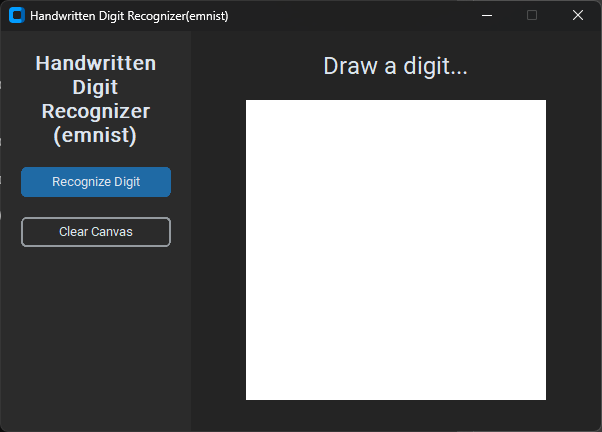
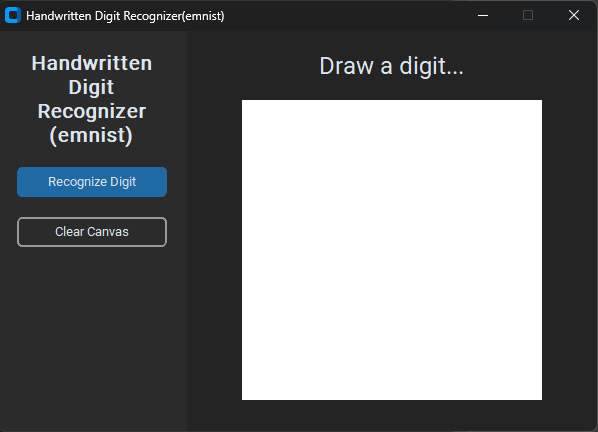
ui updates

diff --git a/src/components/ScrollProgress.jsx b/src/components/ScrollProgress.jsx
@@ -1,27 +1,76 @@
-import { useEffect, useState } from 'react';
+import { useEffect, useState, useRef } from 'react';
 import './ScrollProgress.css';
 
 export default function ScrollProgress() {
   const [progress, setProgress] = useState(0);
+  const isDragging = useRef(false);
+  const trackRef = useRef(null);
 
   useEffect(() => {
-    const handleScroll = () => {
+    const updateProgressFromScroll = () => {
       const scrollY = window.scrollY;
       const docHeight = document.documentElement.scrollHeight - window.innerHeight;
       const scrolled = docHeight > 0 ? (scrollY / docHeight) * 100 : 0;
       setProgress(scrolled);
     };
 
+    const handleScroll = () => {
+      updateProgressFromScroll();
+    };
+
     window.addEventListener('scroll', handleScroll, { passive: true });
-    
-    // Initial call
-    handleScroll();
+    updateProgressFromScroll();
 
     return () => window.removeEventListener('scroll', handleScroll);
   }, []);
 
+  useEffect(() => {
+    const handleMouseMove = (e) => {
+      if (!isDragging.current) return;
+      e.preventDefault();
+      scrollToY(e.clientY);
+    };
+
+    const handleMouseUp = () => {
+      if (isDragging.current) {
+        isDragging.current = false;
+        document.body.style.userSelect = '';
+      }
+    };
+
+    window.addEventListener('mousemove', handleMouseMove);
+    window.addEventListener('mouseup', handleMouseUp);
+
+    return () => {
+      window.removeEventListener('mousemove', handleMouseMove);
+      window.removeEventListener('mouseup', handleMouseUp);
+    };
+  }, []);
+
+  const scrollToY = (clientY) => {
+    if (!trackRef.current) return;
+    const { top, height } = trackRef.current.getBoundingClientRect();
+    const ratio = Math.max(0, Math.min(1, (clientY - top) / height));
+    const docHeight = document.documentElement.scrollHeight - window.innerHeight;
+    
+    window.scrollTo({
+      top: docHeight * ratio,
+      behavior: 'auto'
+    });
+  };
+
+  const handleMouseDown = (e) => {
+    isDragging.current = true;
+    document.body.style.userSelect = 'none';
+    scrollToY(e.clientY);
+  };
+
   return (
-    <div className="scroll-progress-container fade-in">
+    <div 
+      className="scroll-progress-container fade-in"
+      onMouseDown={handleMouseDown}
+      ref={trackRef}
+    >
       <div className="scroll-progress-track">
         <div 
           className="scroll-progress-fill" 

diff --git a/src/components/Projects.css b/src/components/Projects.css
@@ -10,7 +10,7 @@
 
 /* ── Card ── */
 .project-card {
-  background: var(--bg-card);
+  background: var(--bg-secondary);
   border: 1px solid var(--border);
   border-radius: 18px;
   overflow: hidden;
@@ -76,7 +76,7 @@
   height: 32px;
   border-radius: 8px;
   border: 1px solid var(--border);
-  background: var(--bg-primary);
+  background: var(--bg-secondary);
   color: var(--text-secondary);
   transition: all 0.2s ease;
 }
@@ -106,10 +106,11 @@
   flex-shrink: 0;
   position: relative;
   overflow: hidden;
-  background: var(--bg-card-hover);
-  border-left: 1px solid var(--border);
+  background: var(--bg-secondary);
+  border-left: none;
   width: 30%;
   transition: width 0.42s cubic-bezier(0.4, 0, 0.2, 1);
+  pointer-events: auto; /* override global img pointer-events: none */
 }
 
 .project-cover:hover {
@@ -140,7 +141,7 @@
 .project-cover-hover {
   object-fit: contain;
   object-position: center;
-  background: var(--bg-card-hover);
+  background: transparent;
   opacity: 0;
   z-index: 2;
 }

diff --git a/src/components/ScrollProgress.css b/src/components/ScrollProgress.css
@@ -1,18 +1,21 @@
 .scroll-progress-container {
   position: fixed;
   top: 0;
-  right: 8px;
+  right: 0;
   height: 100vh;
-  width: 3px;
+  width: 16px; /* Wider hit area for dragging */
   z-index: 1001;
+  cursor: pointer; /* Indicates it's interactive */
+  display: flex;
+  justify-content: center;
 }
 
 .scroll-progress-track {
   position: relative;
-  width: 100%;
+  width: 4px; /* Track is slightly thicker but inside wider container */
   height: 100%;
   background: var(--border);
-  border-radius: 0;
+  border-radius: 2px;
 }
 
 .scroll-progress-fill {

diff --git a/src/components/Contact.css b/src/components/Contact.css
@@ -29,7 +29,7 @@
   align-items: center;
   gap: 1rem;
   padding: 1rem 1.25rem;
-  background: var(--bg-card);
+  background: var(--bg-secondary);
   border: 1px solid var(--border);
   border-radius: 12px;
   transition: all 0.3s ease;
@@ -80,7 +80,7 @@
   display: flex;
   flex-direction: column;
   gap: 1.25rem;
-  background: var(--bg-card);
+  background: var(--bg-secondary);
   border: 1px solid var(--border);
   border-radius: 18px;
   padding: 2rem;

diff --git a/src/components/About.css b/src/components/About.css
@@ -30,7 +30,7 @@
 
 .profile-img-wrap {
   width: 100%;
-  height: 320px;
+  aspect-ratio: 3 / 4;  /* portrait ratio — adjust e.g. 1/1 for square */
   border-radius: 14px;
   overflow: hidden;
   margin-bottom: 1.5rem;
@@ -245,7 +245,7 @@
   justify-content: center;
   width: 44px;
   height: 44px;
-  background: var(--bg-card);
+  background: var(--bg-secondary);
   border: 1px solid var(--border);
   border-radius: 10px;
   color: var(--text-primary);

diff --git a/src/components/Skills.css b/src/components/Skills.css
@@ -64,7 +64,7 @@
   align-items: center;
   gap: 0.4rem;
   padding: 0.3rem 0.85rem 0.3rem 0.55rem;
-  background: var(--bg-primary);
+  background: var(--bg-secondary);
   color: var(--tag-text);
   border-radius: 20px;           /* pill shape — matches .tag */
   font-size: 0.8rem;

diff --git a/src/index.css b/src/index.css
@@ -69,6 +69,14 @@
   padding: 0;
 }
 
+img, video, gif {
+  -webkit-user-drag: none;
+  user-select: none;
+  -webkit-user-select: none;
+  pointer-events: none;
+  draggable: false;
+}
+
 html {
   scroll-behavior: smooth;
   font-size: 16px;

diff --git a/src/components/Hero.css b/src/components/Hero.css
@@ -196,7 +196,7 @@
   height: 38px;
   border-radius: 10px;
   border: 1px solid var(--border);
-  background: var(--bg-card);
+  background: var(--bg-secondary);
   color: var(--text-secondary);
   transition: all 0.2s ease;
 }
